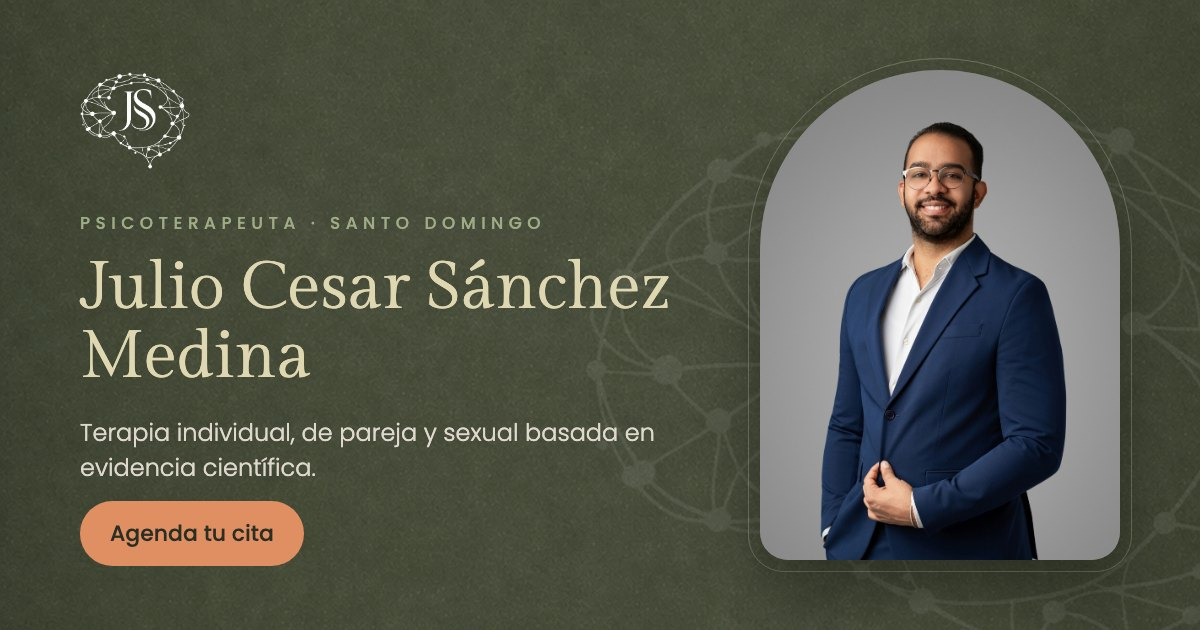
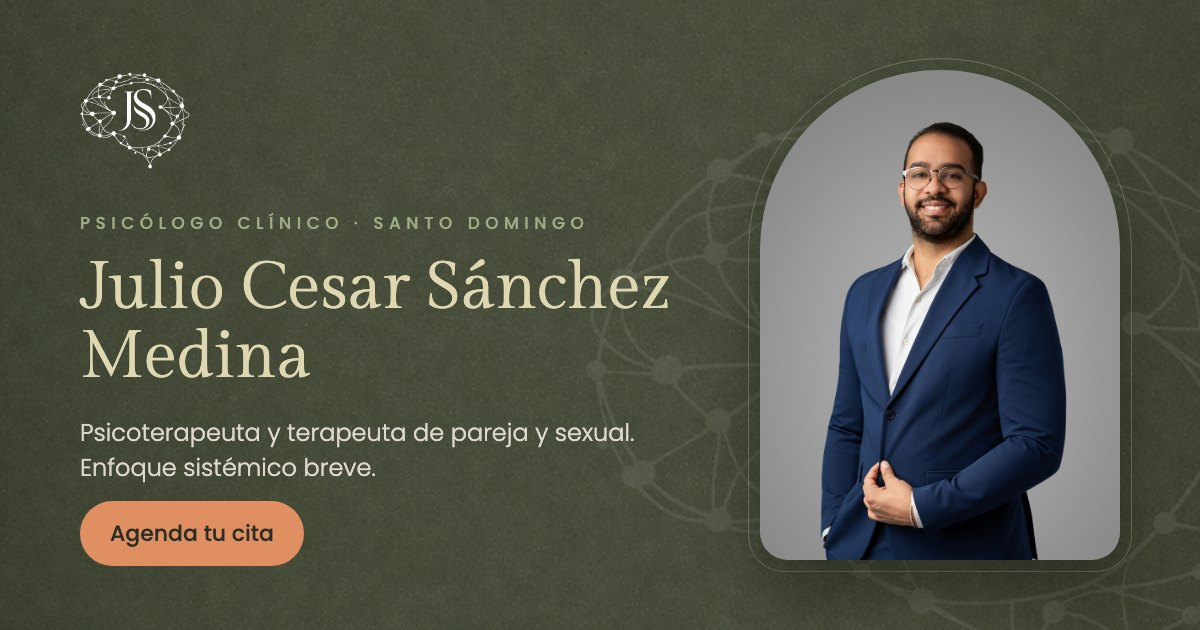
Fase 2: formación y credenciales de Julio
- "Sobre mí": psicólogo clínico, psicoterapeuta familiar y de pareja desde
  2020, enfoque sistémico breve; nuevo bloque "Formación y credenciales"
  con exequátur 13016, CODOPSI 20-15839, maestrías y certificaciones, y
  enlace a LinkedIn
- Palabras clave: título "Psicólogo y Terapeuta de Pareja en Santo Domingo",
  línea de palabras clave dentro del H1, nueva meta descripción e intro de
  servicios con psicólogo clínico / terapeuta de pareja / terapeuta sexual
- JSON-LD: jobTitle, hasOccupation con sus formas de presentación,
  hasCredential (licencias, títulos y certificaciones), alumniOf, memberOf
  CODOPSI y LinkedIn en sameAs
- Imagen para compartir actualizada; iconos graduation y badge
- Datos centralizados en credentials (src/config/site.ts); pendiente que
  Julio confirme nombre exacto del título, año y experiencia previa a 2020

Changed region(s): [[0.0617, 0.6635, 0.555, 0.754], [0.1233, 0.3317, 0.4933, 0.3619]]

diff --git a/src/lib/schema.ts b/src/lib/schema.ts
@@ -4,10 +4,10 @@
  * desincronicen. Solo usa hechos visibles en la web: no añadir credenciales, reseñas ni
  * direcciones que no estén publicadas.
  *
- * Tipos: WebSite · WebPage · Person · ProfessionalService (+3 Service) · 3 Organization (centros)
+ * Tipos: WebSite · WebPage · Person (con credenciales) · ProfessionalService (+3 Service) · 3 Organization (centros)
  *        · Blog con BlogPosting (artículos de Medium).
  */
-import { site, services, bookingCenters, bookingInfo, e164 } from "@/config/site";
+import { site, services, bookingCenters, bookingInfo, credentials, e164 } from "@/config/site";
 import type { Article } from "@/lib/medium";
 
 type Options = {
@@ -40,6 +40,39 @@ export function buildJsonLd({ abs, pageUrl, pageTitle, imageUrl, articles }: Opt
     name: "Santo Domingo",
     containedInPlace: { "@type": "Country", name: "República Dominicana" },
   };
+  // Credenciales: solo lo confirmado por Julio en @/config/site
+  const codopsi = {
+    "@type": "Organization",
+    name: "Colegio Dominicano de Psicólogos (CODOPSI)",
+    address: { "@type": "PostalAddress", addressCountry: "DO" },
+  };
+  const institutions = [...new Set(credentials.education.map((e) => e.institution))].map((name) => ({
+    "@type": "EducationalOrganization",
+    name,
+  }));
+  const credentialCategory = { degree: "degree", course: "course", certificate: "certificate" } as const;
+  const hasCredential = [
+    {
+      "@type": "EducationalOccupationalCredential",
+      name: "Exequátur para el ejercicio profesional de la psicología",
+      credentialCategory: "license",
+      identifier: credentials.exequatur,
+    },
+    {
+      "@type": "EducationalOccupationalCredential",
+      name: "Colegiatura en el Colegio Dominicano de Psicólogos",
+      credentialCategory: "license",
+      identifier: credentials.codopsi,
+      recognizedBy: codopsi,
+    },
+    ...credentials.education.map((e) => ({
+      "@type": "EducationalOccupationalCredential",
+      name: e.title,
+      credentialCategory: credentialCategory[e.kind],
+      recognizedBy: { "@type": "EducationalOrganization", name: e.institution },
+    })),
+  ];
+
   const centers = bookingCenters
     .filter((c) => c.name)
     .map((c) => ({
@@ -83,12 +116,29 @@ export function buildJsonLd({ abs, pageUrl, pageTitle, imageUrl, articles }: Opt
         email: site.contact.email,
         telephone: e164(site.contact.phone),
         knowsLanguage: "es",
-        knowsAbout: ["Psicoterapia", ...services.map((s) => s.title), "Salud mental", "Educación emocional"],
-        hasOccupation: { "@type": "Occupation", name: site.role, occupationLocation: santoDomingo },
+        knowsAbout: [
+          "Psicología clínica",
+          "Psicoterapia",
+          ...services.map((s) => s.title),
+          "Terapia familiar",
+          "Sexología",
+          "Terapia sistémica breve",
+          "Psicoterapia de grupo",
+          "Salud mental",
+        ],
+        hasOccupation: {
+          "@type": "Occupation",
+          name: site.role,
+          alternateName: site.roles.filter((r) => r !== site.role),
+          occupationLocation: santoDomingo,
+        },
+        hasCredential,
+        alumniOf: institutions,
+        memberOf: codopsi,
         affiliation: centers.map((c) => ({ "@id": c["@id"] })),
         areaServed: santoDomingo,
         address: { "@type": "PostalAddress", addressLocality: "Santo Domingo", addressCountry: "DO" },
-        sameAs: [site.social.medium, site.social.whatsappChannel],
+        sameAs: [site.social.linkedin, site.social.medium, site.social.whatsappChannel],
       },
       {
         "@type": "ProfessionalService",

diff --git a/src/config/site.ts b/src/config/site.ts
@@ -22,15 +22,18 @@ export const site = {
   shortName: "Julio Cesar Sánchez",
   /** Variantes del nombre usadas en otros perfiles (p. ej. Medium) — ayudan a Google a unir la identidad */
   alternateNames: ["Julio Cesar Sánchez", "Julio Sánchez Medina", "Julio Sanchez Medina"],
-  role: "Psicoterapeuta",
-  title: "Julio Cesar Sánchez Medina · Psicoterapeuta en Santo Domingo",
+  role: "Psicólogo clínico",
+  /** Cómo se presenta Julio (y cómo lo buscan): se usan en textos y datos estructurados */
+  roles: ["Psicólogo clínico", "Psicoterapeuta", "Terapeuta de pareja", "Terapeuta sexual", "Sexólogo"],
+  title: "Psicólogo y Terapeuta de Pareja en Santo Domingo · Julio Sánchez",
   description:
-    "Psicoterapeuta en Santo Domingo. Terapia individual, de pareja y sexual basada en evidencia científica. Agenda tu cita por WhatsApp.",
+    "Psicólogo clínico y psicoterapeuta en Santo Domingo. Terapia individual, de pareja y sexual con enfoque sistémico breve. Agenda tu cita por WhatsApp.",
   locale: "es_DO",
   social: {
     mediumUser: "medina.juliocesar16",
     medium: "https://medium.com/@medina.juliocesar16",
     whatsappChannel: "https://whatsapp.com/channel/0029VbCWN3L89inroLqmzc1C",
+    linkedin: "https://www.linkedin.com/in/psi-julioc-sanchez-medina/",
   },
   contact: {
     email: "psi.juliosanchez@gmail.com",
@@ -54,6 +57,27 @@ export const bookingCenters: BookingCenter[] = [
   { name: "Centro Integral Lotus", label: "Centro Integral Lotus", phone: "+1 (809) 851-1386" },
   { name: "Mentalmente", label: "Mentalmente", phone: "+1 (829) 783-8519", allowCalls: false },
 ];
+
+/**
+ * Formación y credenciales, confirmadas por Julio (nov. 2026). Se muestran en "Sobre mí"
+ * y en los datos estructurados. Pendiente de confirmar por él: nombre exacto del título
+ * de grado y año de graduación, y si suma experiencia anterior a 2020.
+ */
+export const credentials = {
+  exequatur: "13016",
+  codopsi: "20-15839",
+  /** Psicoterapeuta familiar y de pareja desde diciembre de 2020 */
+  practiceSince: 2020,
+  approach: "Sistémico breve, orientado a la construcción de soluciones",
+  education: [
+    { kind: "degree", title: "Psicólogo clínico", institution: "Universidad Católica Santo Domingo", short: "UCSD" },
+    { kind: "degree", title: "Maestría en Terapia Familiar y de Pareja", institution: "Universidad Católica Santo Domingo", short: "UCSD" },
+    { kind: "degree", title: "Maestría en Psicología de la Salud", institution: "Universidad Europea del Atlántico" },
+    { kind: "course", title: "Formación en Sexualidad Humana y Terapia de Pareja", institution: "Universidad Autónoma de Santo Domingo", short: "UASD" },
+    { kind: "certificate", title: "Certificación en Terapia Breve de Resolución de Problemas", institution: "Brief Therapy Center México" },
+    { kind: "certificate", title: "Certificación en Coordinación y Psicoterapia de Grupo", institution: "Escuela Sistémica de Argentina" },
+  ],
+} as const;
 
 /** Modalidad y honorarios (se muestran en "Agenda tu cita" y en los datos estructurados). */
 export const bookingInfo = {
